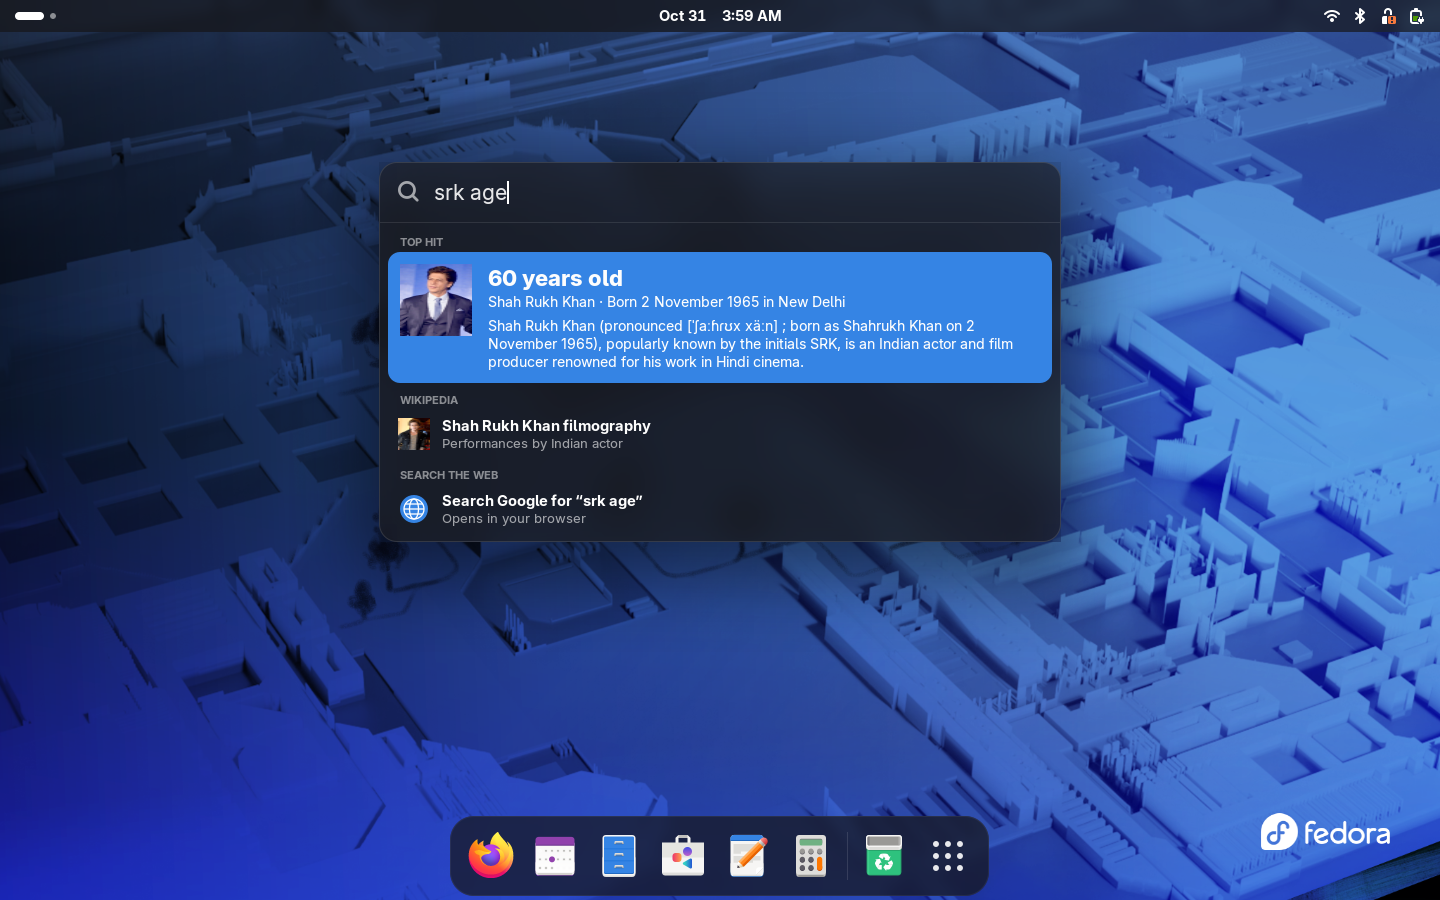
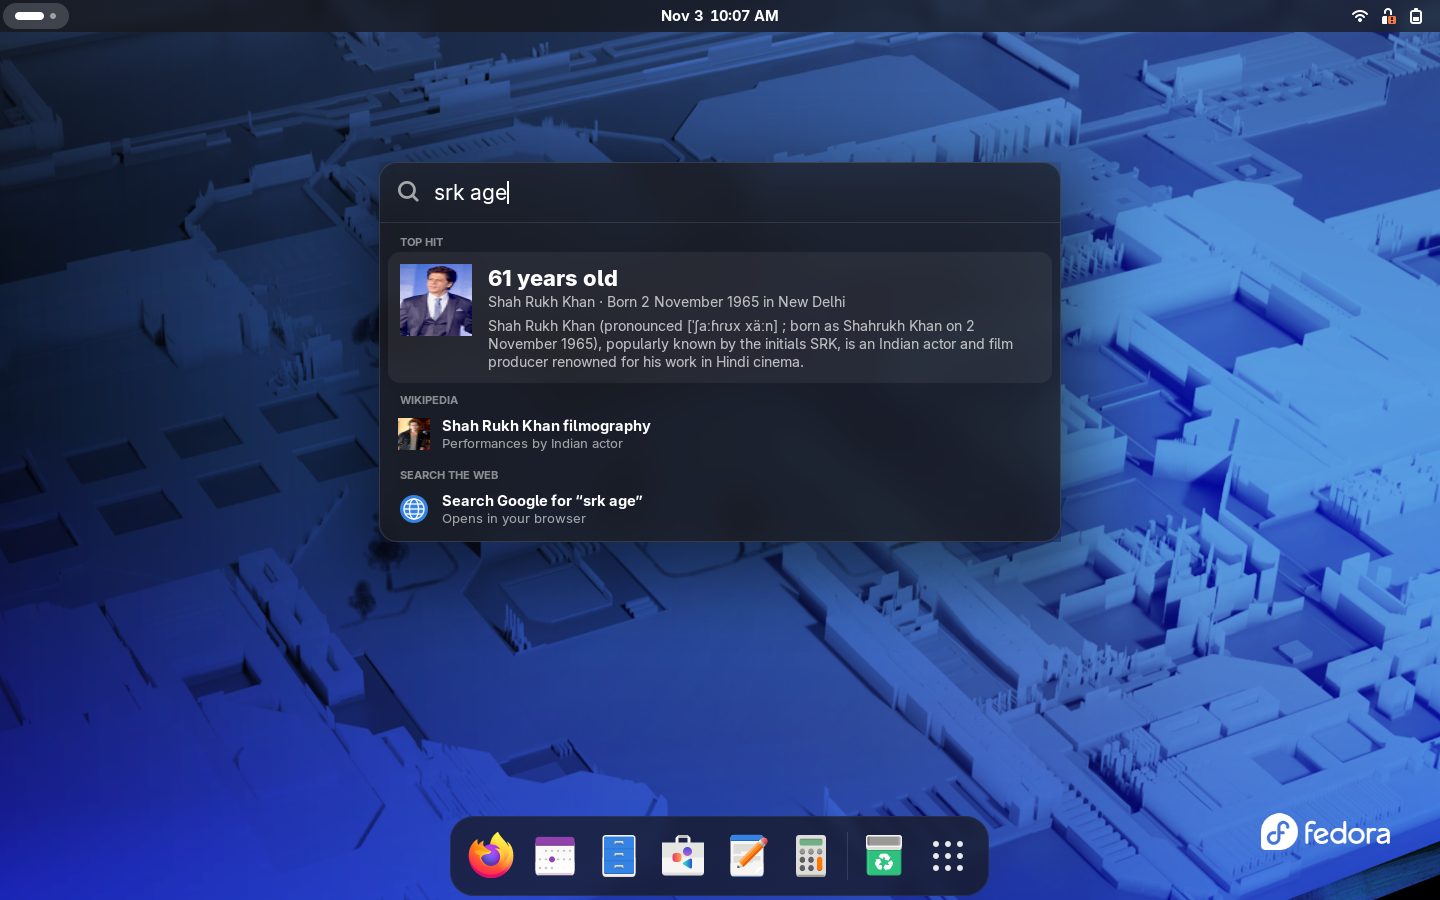
Highlight results only after arrow keys; add transparency setting
Also refreshes the README screenshots.

Changed region(s): [[0.25, 0.28, 0.75, 0.4356], [0.4375, 0.0, 0.5625, 0.0311], [0.0, 0.0, 0.0625, 0.0311]]

diff --git a/overlay.js b/overlay.js
@@ -20,6 +20,7 @@ const PANEL_TOP = 0.18; // fraction of the monitor's height
 const CARD_MAX_HEIGHT = 0.8;
 const OPEN_MS = 130;
 const CARD_MS = 160;
+const CARD_EXTRA_OPACITY = 0.08;
 const SLOW_ORDER = ["weather", "answer", "dictionary", "wikipedia", "files"];
 const ENTER_KEYS = [Clutter.KEY_Return, Clutter.KEY_KP_Enter, Clutter.KEY_ISO_Enter];
 const MODIFIER_KEYS = [Clutter.KEY_Control_L, Clutter.KEY_Control_R, Clutter.KEY_Shift_L, Clutter.KEY_Shift_R,
@@ -126,6 +127,21 @@ class SpotliteOverlay extends St.Widget {
 
   get isOpen() {
     return this._isOpen;
+  }
+
+  // The panel and card tint over the frosted glass, from the Transparency setting; inline,
+  // so it follows the setting without reloading the stylesheet. The card stays a little
+  // more solid, since it is for reading.
+  _tint(actor, extra = 0) {
+    const alpha = Math.min(1, 1 - this._settings.get_int("transparency") / 100 + extra);
+    const [r, g, b] = Main.getStyleVariant() === "light" ? [248, 248, 250] : [30, 30, 34];
+    actor.style = `background-color: rgba(${r}, ${g}, ${b}, ${alpha.toFixed(2)});`;
+  }
+
+  _applyTint() {
+    this._tint(this._panel);
+    if (this._card)
+      this._tint(this._card, CARD_EXTRA_OPACITY);
   }
 
   // Every event on screen while open passes here first (the stage's captured-event), and
@@ -293,11 +309,13 @@ class SpotliteOverlay extends St.Widget {
     this._frame.set_scale(0.96, 0.96);
     this.ease({ opacity: 255, duration: OPEN_MS, mode: Clutter.AnimationMode.EASE_OUT_QUAD });
     this._frame.ease({ scale_x: 1, scale_y: 1, duration: OPEN_MS, mode: Clutter.AnimationMode.EASE_OUT_QUAD });
+    this._applyTint();
     this._entry.grab_key_focus();
     this._entry.clutter_text.set_selection(0, -1); // like Spotlight, the last query comes back selected
     global.stage.connectObject(
       "captured-event", (_stage, event) => this._onCapturedEvent(event),
       "notify::key-focus", () => this._onKeyFocusChanged(), this);
+    this._settings.connectObject("changed::transparency", () => this._applyTint(), this);
     global.display.connectObject("notify::focus-window", () => {
       if (global.display.focus_window)
         this.close(); // Alt+Tab or a click gave a window the focus
@@ -326,6 +344,7 @@ class SpotliteOverlay extends St.Widget {
   _stopWatching() {
     global.stage.disconnectObject(this);
     global.display.disconnectObject(this);
+    this._settings.disconnectObject(this);
     this._drag = null;
   }
 
@@ -537,7 +556,11 @@ class SpotliteOverlay extends St.Widget {
     this._rows[this._selected]?.remove_style_pseudo_class("selected");
     this._selected = index;
     const row = this._rows[index];
-    row.add_style_pseudo_class("selected");
+    // highlighted only once the arrow keys are used: a highlight while typing looked like
+    // a selection Space would preview, but Space only previews after ↑/↓ (Enter still
+    // opens the first result either way)
+    if (this._navigated)
+      row.add_style_pseudo_class("selected");
     ensureActorVisibleInScrollView(this._scroll, row);
   }
 
@@ -647,6 +670,7 @@ class SpotliteOverlay extends St.Widget {
     const card = new St.BoxLayout({
       style_class: "spotlite-card", orientation: Clutter.Orientation.VERTICAL, reactive: true,
     });
+    this._tint(card, CARD_EXTRA_OPACITY);
     // frosted glass under the card, like the bar; the frame is what gets placed and dragged
     const glass = new Glass({ radius: 22 });
     const frame = new St.Widget({ layout_manager: new Clutter.BinLayout() });

diff --git a/prefs.js b/prefs.js
@@ -25,6 +25,7 @@ export default class SpotlitePreferences extends ExtensionPreferences {
     const page = new Adw.PreferencesPage();
     window.add(page);
     page.add(this._shortcutGroup(window, settings));
+    page.add(this._appearanceGroup(settings));
     page.add(this._sourcesGroup(settings));
     page.add(this._weatherGroup(settings));
     page.add(this._wolframGroup(settings));
@@ -78,6 +79,23 @@ export default class SpotlitePreferences extends ExtensionPreferences {
     keys.forEach(k => settings.connect(`changed::${k}`, moved));
     moved();
     group.add(position);
+    return group;
+  }
+
+  _appearanceGroup(settings) {
+    const group = new Adw.PreferencesGroup({ title: "Appearance" });
+    const row = new Adw.ActionRow({
+      title: "Transparency", subtitle: "How much of the frosted desktop shows through the search bar and Quick Look",
+    });
+    const scale = new Gtk.Scale({
+      adjustment: new Gtk.Adjustment({ lower: 0, upper: 90, step_increment: 5, page_increment: 10 }),
+      digits: 0, draw_value: true, value_pos: Gtk.PositionType.LEFT, hexpand: true,
+      width_request: 220, valign: Gtk.Align.CENTER,
+    });
+    scale.set_format_value_func((_scale, value) => `${value}%`);
+    settings.bind("transparency", scale.adjustment, "value", Gio.SettingsBindFlags.DEFAULT);
+    row.add_suffix(scale);
+    group.add(row);
     return group;
   }
 

diff --git a/README.md b/README.md
@@ -20,11 +20,16 @@ A fast search bar for GNOME, inspired by macOS Spotlight. Press **Super+Space**,
 - **Typos**: when a search finds nothing, it is retried with the corrected spelling (Wikipedia's "Did you mean" for names and places, Wiktionary's closest word, a typo or two for app names) and says "Showing results for …"
 - **Web**: a "Search the web" row, plus prefixes that jump to a site: `g`, `ddg`, `yt`, `tr`, `map`, `so`, `gh`, `wiki`, `def`
 
+![“srk age” answered directly](screenshots/answer.png)
+
+![Weather in Varanasi](screenshots/weather.png)
+
 ### Moving the bar
 
 Drag the bar by its edge (the search icon, the space around the results) to move it
 anywhere, like on macOS; it opens there next time. The Quick Look card moves the same way,
-by its toolbar or picture. Reset puts both back (preferences).
+by its toolbar or picture. Reset puts both back (preferences), where a Transparency slider also
+sets how much of the frosted desktop shows through.
 
 Spotlite only takes the keyboard: the windows underneath keep scrolling and clicking while it's
 open, and clicking one (or switching with Alt+Tab) closes Spotlite, as on macOS.
